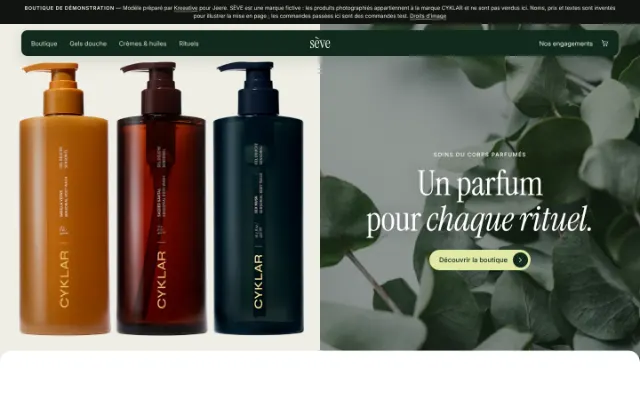
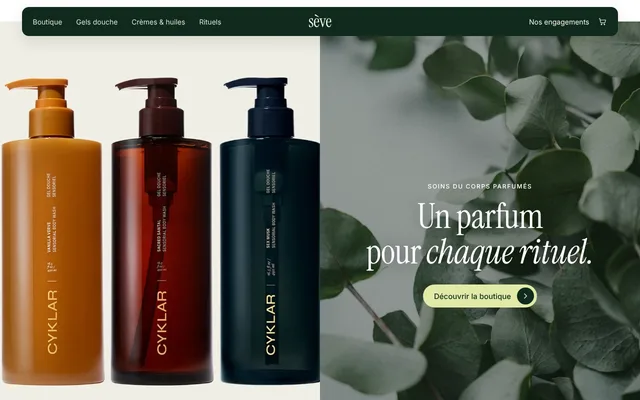
Modèles : image de SÈVE sans bande blanche

diff --git a/concepts/jeere/index.html b/concepts/jeere/index.html
@@ -483,7 +483,7 @@
       </header>
       <ul class="custom__grid">
         <li class="custom__card">
-          <a class="custom__shot" href="modeles/seve/"><img src="studio/sites/thumbs/concepts--seve.webp" width="640" height="400" alt="" loading="lazy" decoding="async"><span class="custom__example" aria-hidden="true" data-i18n="custom.example">Exemple de mise en page</span></a>
+          <a class="custom__shot" href="modeles/seve/"><img src="studio/sites/thumbs/concepts--seve.webp?v=2" width="640" height="400" alt="" loading="lazy" decoding="async"><span class="custom__example" aria-hidden="true" data-i18n="custom.example">Exemple de mise en page</span></a>
           <div class="custom__body">
             <p class="custom__name">SÈVE</p>
             <p class="custom__kind" data-i18n="custom.seve.k">Soins et cosmétiques</p>
